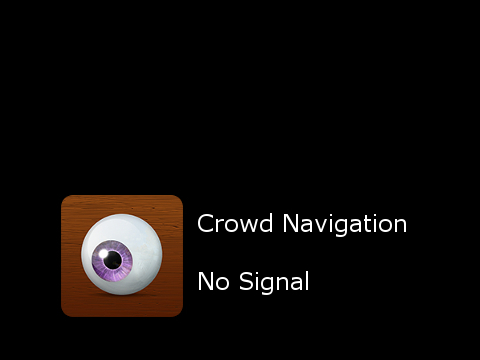
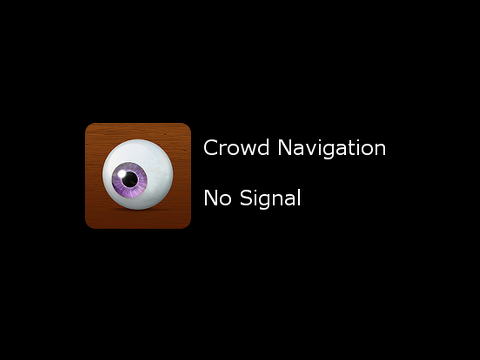
Adjust layout

Changed region(s): [[0.125, 0.3361, 0.8438, 0.8861]]

diff --git a/crowd-navigation/templates/nav-room-base.html b/crowd-navigation/templates/nav-room-base.html
@@ -11,8 +11,10 @@
     <div class="small-12 columns">
         <div class="row">
             <div class="small-6 columns">
-		        <div class="panel">
-			        <div id="tokbox_subscription"><img src="/img/poster_crowd_navigation.jpg" width=480 height=360 alt="TokBoxFrame"></div>
+		        <div id="tokbox_subscription" class="panel">
+	                <div class="flex-video">
+	                    <iframe width="480" height="360" frameborder="0" scrolling="no" marginheight="0" marginwidth="0" src="/img/poster_crowd_navigation.jpg"></iframe>
+	                </div>
 			    </div>
 		    </div>
 		    <div class="small-6 columns">
@@ -36,18 +38,18 @@
                 </div>
             </div>
             <div class="small-5 columns">
-                <div class="panel">
-				    All Directions: <div id="all_directions">Nothing</div>
-				</div>
+	            <div class="panel break-word">
+		            Source Link: <span id="source_key">http://crowd-navigation.appspot.com/main/?g=(( source_key ))</span>
+		        </div>
             </div>
         </div>
     </div>
 </div>
 
 <div class="row">
-    <div class="small-12 columns">
+    <div class="small-7 columns">
         <div class="panel">
-            Source Link: <span id="source_key">http://crowd-navigation.appspot.com/main/?g=(( source_key ))</span>
+            All Directions: <div id="all_directions">Nothing</div>
         </div>
     </div>
 </div>

diff --git a/crowd-navigation/css/app.css b/crowd-navigation/css/app.css
@@ -7408,6 +7408,11 @@ footer {
   background: #2ba6cb;
 }
 
+/* line 7, ../scss/_crowd.scss */
+.break-word {
+  word-wrap: break-word;
+}
+
 /* line 10, ../scss/_sticky-footer.scss */
 html, body {
   height: 100%;
